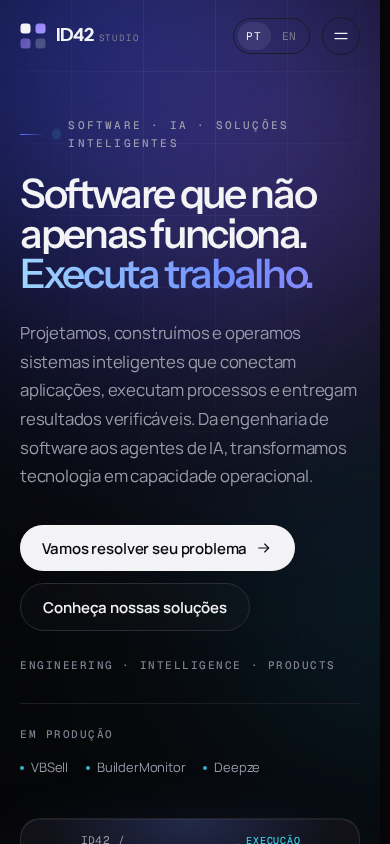
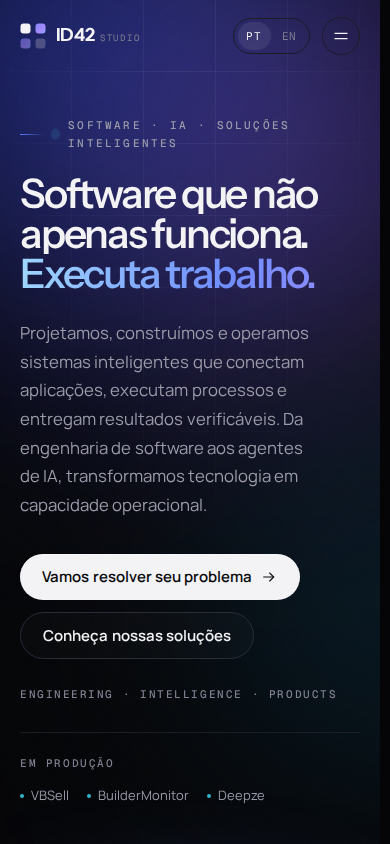
Normalize Manrope tracking on small text sizes
Negative letter-spacing below ~18px collapsed Portuguese word
boundaries in body copy, playground neighbours and outcome text.
Keep tight tracking only on large display headings.

diff --git a/src/styles/global.css b/src/styles/global.css
@@ -125,7 +125,10 @@
     font-size: 1rem;
     line-height: 1.65;
     font-weight: 400;
-    letter-spacing: -0.011em;
+    /* Manrope needs neutral tracking at text sizes — negative tracking
+       collapses Portuguese word boundaries below ~18px. */
+    letter-spacing: 0;
+    word-spacing: 0.02em;
     font-optical-sizing: auto;
     font-synthesis-weight: none;
     font-feature-settings: "ss01" on, "cv11" on;
@@ -144,7 +147,7 @@
     font-family: var(--font-display);
     font-weight: 560;
     line-height: 1.05;
-    letter-spacing: -0.04em;
+    letter-spacing: 0;
     font-feature-settings: "ss01" on, "ss02" on;
     text-wrap: balance;
   }
@@ -262,7 +265,8 @@
   font-size: clamp(2.55rem, 6.8vw, 6.1rem);
   font-weight: 550;
   line-height: 0.94;
-  letter-spacing: -0.058em;
+  letter-spacing: -0.055em;
+  word-spacing: 0;
   font-feature-settings: "ss01" on, "ss02" on;
 }
 
@@ -271,7 +275,8 @@
   font-size: clamp(2rem, 4.6vw, 3.65rem);
   font-weight: 550;
   line-height: 1;
-  letter-spacing: -0.05em;
+  letter-spacing: -0.045em;
+  word-spacing: 0;
   font-feature-settings: "ss01" on, "ss02" on;
 }
 
@@ -280,13 +285,15 @@
   font-size: clamp(1.45rem, 2.3vw, 1.95rem);
   font-weight: 550;
   line-height: 1.1;
-  letter-spacing: -0.035em;
+  letter-spacing: -0.03em;
+  word-spacing: 0;
 }
 
 .lead {
   font-size: clamp(1.05rem, 1.35vw, 1.2rem);
   line-height: 1.7;
-  letter-spacing: -0.012em;
+  letter-spacing: 0;
+  word-spacing: 0.02em;
   color: var(--color-muted);
   max-width: 52ch;
   text-wrap: pretty;
@@ -326,7 +333,8 @@
 .num-outline {
   font-family: var(--font-display);
   font-weight: 500;
-  letter-spacing: -0.04em;
+  letter-spacing: -0.035em;
+  word-spacing: 0;
   color: transparent;
   -webkit-text-stroke: 1px color-mix(in oklab, var(--color-fg) 26%, transparent);
   transition: -webkit-text-stroke-color 0.35s ease, color 0.35s ease;
@@ -346,7 +354,7 @@
   border-radius: 999px;
   font-size: 0.9375rem;
   font-weight: 600;
-  letter-spacing: -0.01em;
+  letter-spacing: 0;
   line-height: 1;
   white-space: nowrap;
   transition: transform 0.35s var(--ease-out-expo), background-color 0.25s ease,
@@ -671,7 +679,8 @@
   font-family: var(--font-display);
   font-size: 1.65rem;
   font-weight: 500;
-  letter-spacing: -0.03em;
+  letter-spacing: -0.025em;
+  word-spacing: 0;
 }
 
 .mobile-menu a.mobile-link span {
@@ -866,7 +875,7 @@
   margin-top: 0.9rem;
   font-size: 1.0625rem;
   font-weight: 600;
-  letter-spacing: -0.02em;
+  letter-spacing: 0;
 }
 
 .pain p {
@@ -920,7 +929,8 @@
   font-family: var(--font-display);
   font-size: clamp(1.35rem, 2vw, 1.75rem);
   font-weight: 500;
-  letter-spacing: -0.03em;
+  letter-spacing: -0.02em;
+  word-spacing: 0;
   line-height: 1.1;
 }
 
@@ -995,7 +1005,7 @@
   margin-top: 1.1rem;
   font-size: 1.0625rem;
   font-weight: 600;
-  letter-spacing: -0.02em;
+  letter-spacing: 0;
 }
 
 .process-step p {
@@ -1037,7 +1047,7 @@
 .usecase h3 {
   font-size: 1rem;
   font-weight: 600;
-  letter-spacing: -0.02em;
+  letter-spacing: 0;
 }
 
 .usecase ul {
@@ -1095,7 +1105,7 @@
   font-family: var(--font-display);
   font-size: 0.95rem;
   font-weight: 700;
-  letter-spacing: -0.02em;
+  letter-spacing: 0;
   color: #06060a;
   background: linear-gradient(
     135deg,
@@ -1109,7 +1119,8 @@
   font-family: var(--font-display);
   font-size: 1.55rem;
   font-weight: 500;
-  letter-spacing: -0.03em;
+  letter-spacing: -0.02em;
+  word-spacing: 0;
 }
 
 .case-link {
@@ -1139,7 +1150,8 @@
   font-size: clamp(1.5rem, 2.8vw, 2.3rem);
   font-weight: 500;
   line-height: 1.12;
-  letter-spacing: -0.035em;
+  letter-spacing: -0.03em;
+  word-spacing: 0;
   text-wrap: balance;
 }
 
@@ -1162,7 +1174,8 @@
   font-family: var(--font-display);
   font-size: clamp(2rem, 3.2vw, 2.9rem);
   font-weight: 500;
-  letter-spacing: -0.045em;
+  letter-spacing: -0.04em;
+  word-spacing: 0;
   line-height: 1;
 }
 

diff --git a/DESIGN.md b/DESIGN.md
@@ -40,8 +40,8 @@ Radii: `8 / 12 / 16 / 24 / 32px` (`--radius-xs…xl`). Buttons are fully rounded
 
 | Role | Family | Notes |
 | --- | --- | --- |
-| Display | Instrument Sans 500–650 | Fluid `clamp()` up to ~6.5rem, tracking `-0.06em`, line-height `0.92` |
-| Body | Manrope 400–600 | 16px base, 1.65–1.7 line-height, max ~52–68ch, `text-wrap: pretty` |
+| Display | Instrument Sans 500–650 | Fluid `clamp()` up to ~6.1rem, tight tracking only ≥~1.45rem |
+| Body | Manrope 400–600 | 16px base, tracking `0` (+ slight word-spacing), max ~52–68ch |
 | Labels | Geist Mono 400–500 | 11px, uppercase, tracking `0.14–0.2em` |
 
 ### Why this pairing
@@ -71,12 +71,17 @@ layout. Display type stays at ≥1.45rem — below that Manrope takes over.
 
 | Token | Size | Weight | Tracking | Line-height |
 | --- | --- | --- | --- | --- |
-| `.display-1` | `clamp(2.65rem, 7.2vw, 6.5rem)` | 550 | `-0.06em` | 0.92 |
-| `.display-2` | `clamp(2rem, 4.6vw, 3.65rem)` | 550 | `-0.05em` | 1.0 |
-| `.display-3` | `clamp(1.45rem, 2.3vw, 1.95rem)` | 550 | `-0.035em` | 1.1 |
-| `.lead` | `clamp(1.05rem, 1.35vw, 1.2rem)` | 400 | `-0.012em` | 1.7 |
-| Body | `1rem` | 400 | `-0.011em` | 1.65 |
+| `.display-1` | `clamp(2.55rem, 6.8vw, 6.1rem)` | 550 | `-0.055em` | 0.94 |
+| `.display-2` | `clamp(2rem, 4.6vw, 3.65rem)` | 550 | `-0.045em` | 1.0 |
+| `.display-3` | `clamp(1.45rem, 2.3vw, 1.95rem)` | 550 | `-0.03em` | 1.1 |
+| `.lead` | `clamp(1.05rem, 1.35vw, 1.2rem)` | 400 | `0` | 1.7 |
+| Body | `1rem` | 400 | `0` (+ `word-spacing: 0.02em`) | 1.65 |
 | `.mono-label` | `0.6875rem` | 500 | `0.14em` | — |
+
+Tight tracking is reserved for large display headings. Anything below ~18px
+(body, leads, list items, captions, cards, playground copy) uses `0` or a
+slightly positive letter/word spacing so Portuguese words stay separable —
+Manrope collapses visually under negative tracking at text sizes.
 
 `font-feature-settings: "ss01"` (and `"ss02"` on display) sharpen Instrument
 Sans alternates; body uses `ss01` + `cv11` where available.
